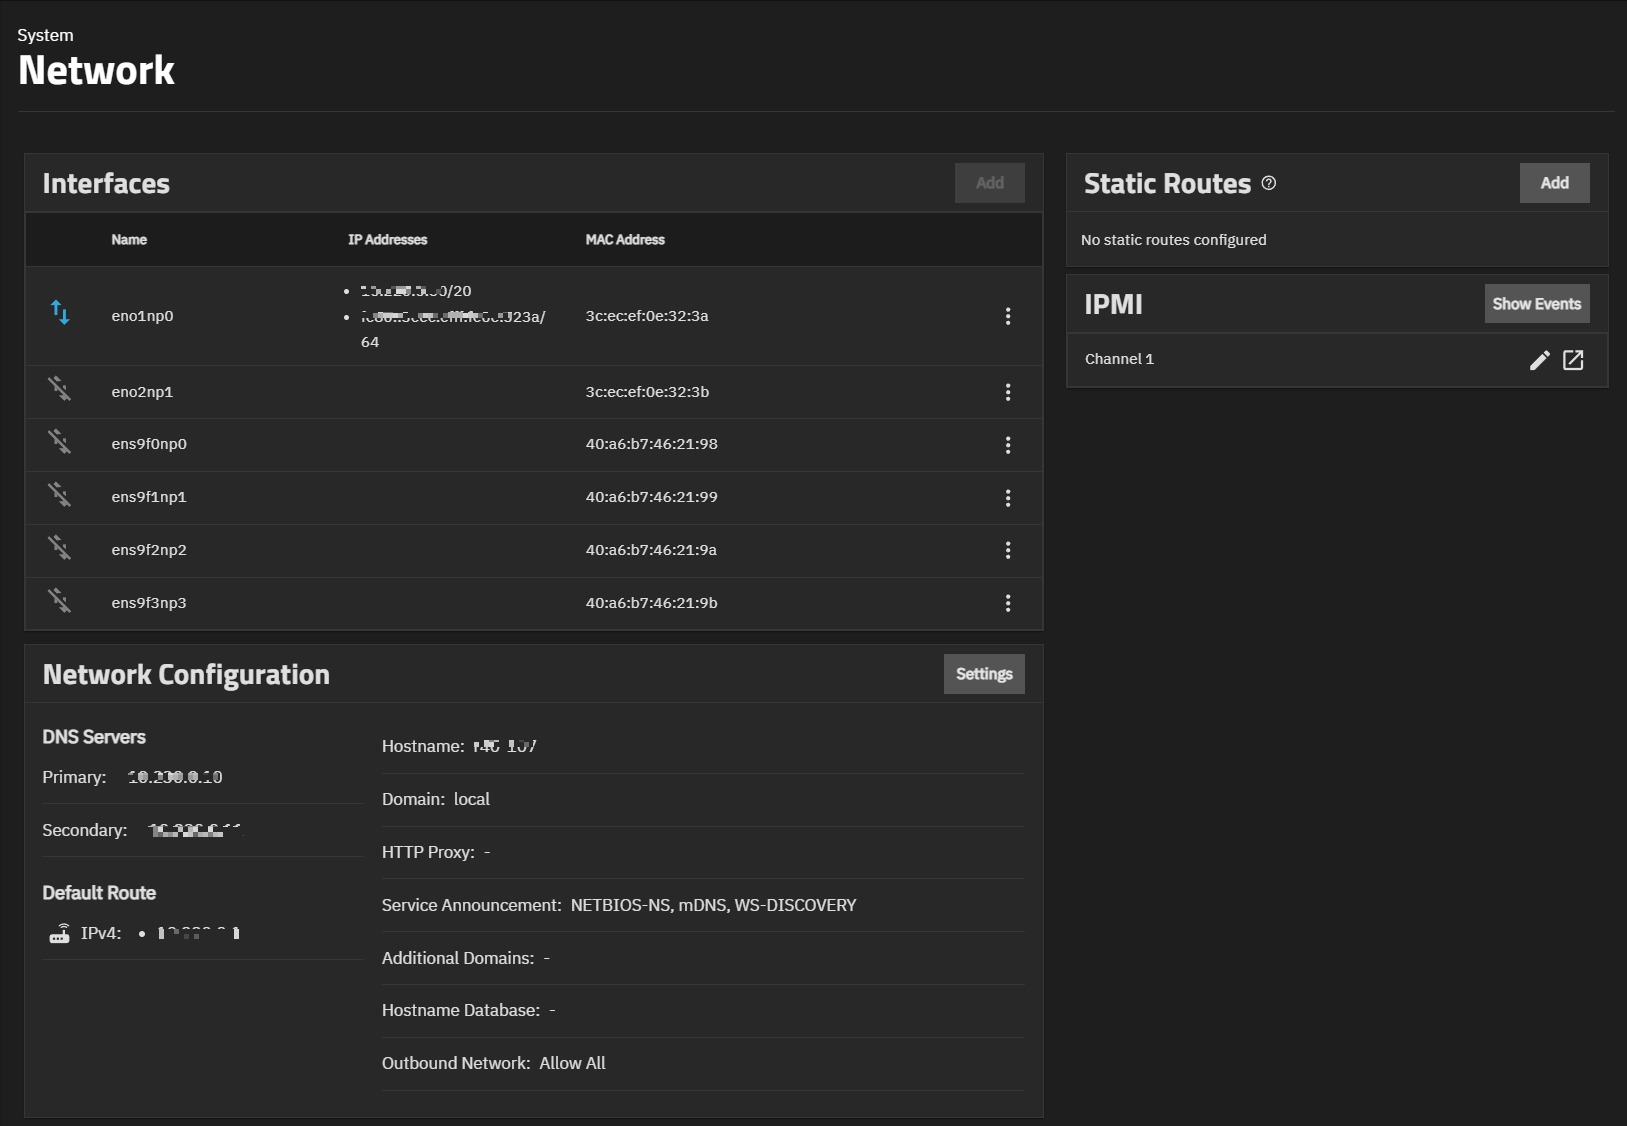
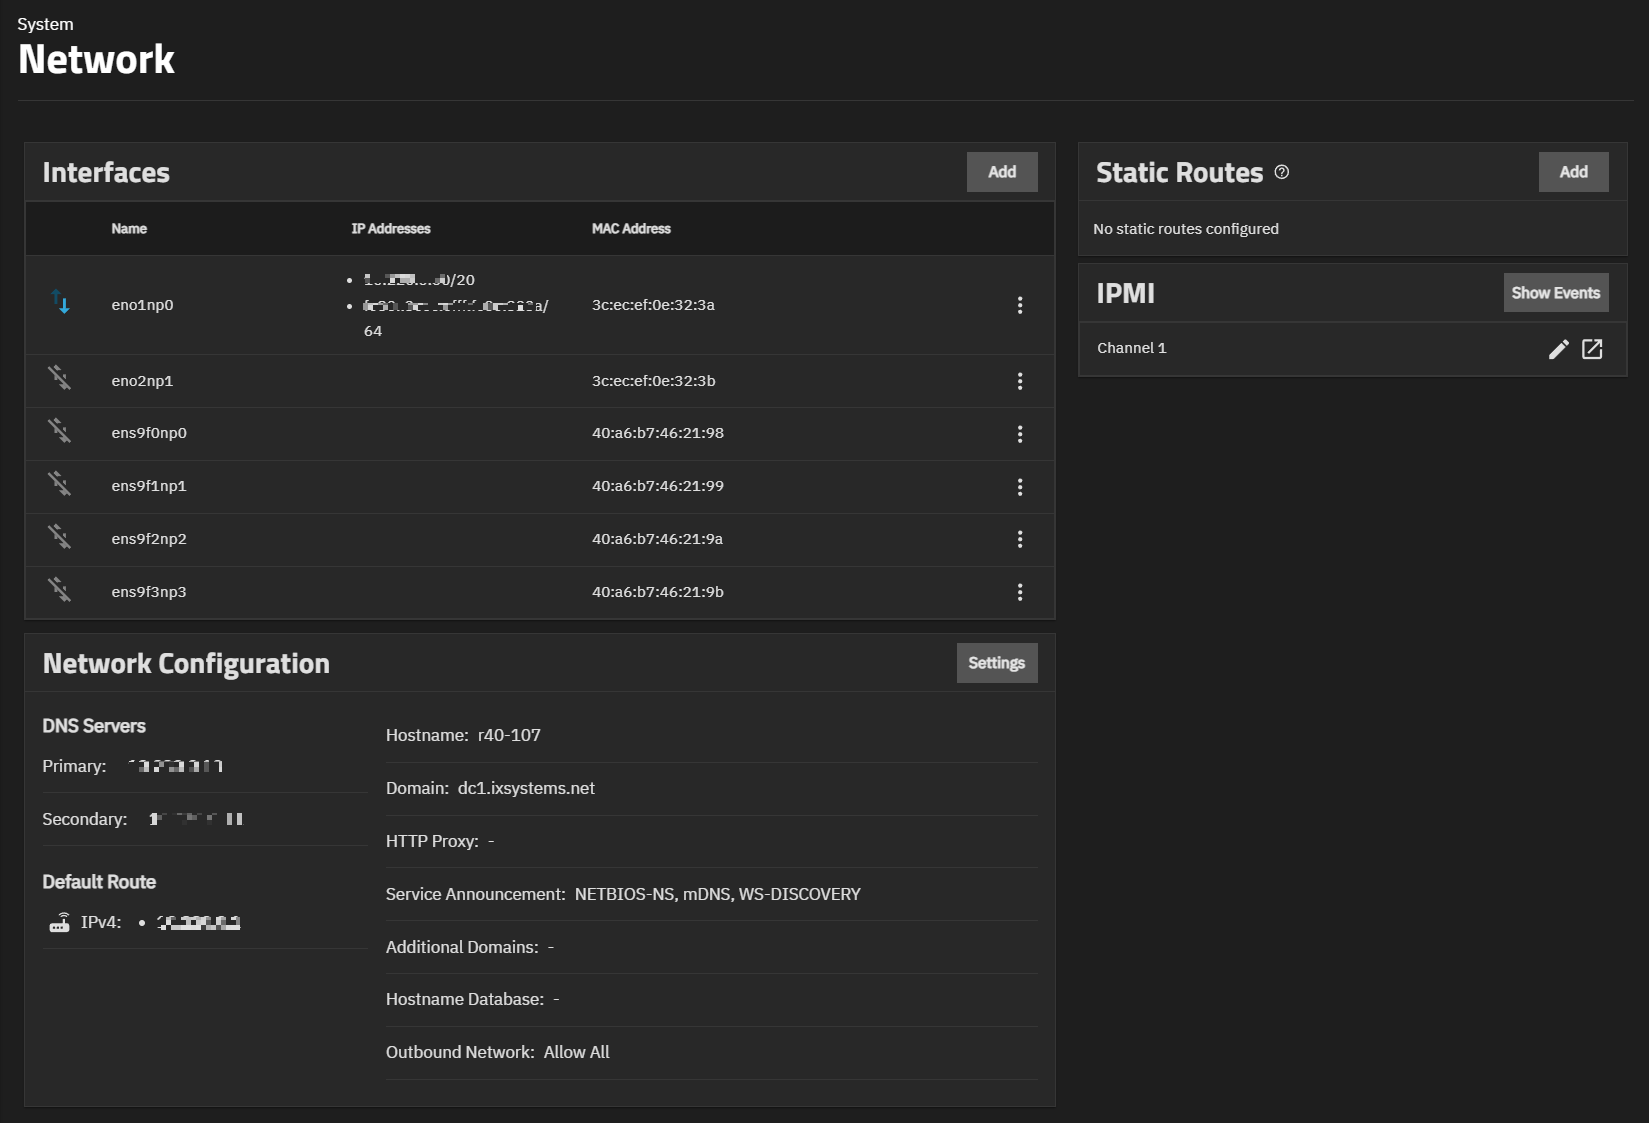
PD-2195 Updates to Global Network Config and Static Route Content
This PR updates the main Network. png image, changes the global network configuration widget to the renamed NetworkConfigurationWidget.png, updated the StaticRouteWidget.png, and updated the UI ref and tutorials to reflect UI name changes. Minor changes in the StaticRoutesScreens.md UI ref. Leaving the network _index.md where it is in the main navigation for visibility rather than moving it under System

diff --git a/content/SCALE/SCALETutorials/Network/ManagingGlobalConfig.md b/content/SCALE/SCALETutorials/Network/ManagingGlobalConfig.md
@@ -1,6 +1,6 @@
 ---
-title: "Managing Network Global Configurations"
-description: "Provides instructions on configuring or managing global configuration settings."
+title: "Managing Network Configurations"
+description: "Provides instructions on configuring or managing global network configuration settings."
 weight: 20
 aliases:
  - /scale/scaletutorials/network/addingglobalconf/
@@ -8,7 +8,7 @@ tags:
 - network
 ---
 
-Use the **Global Configuration Settings** screen to manage existing general network settings like the default gateway and DNS servers, set services allowed to externally communicate, enter an HTTP proxy, or host name database.
+Use the **Network Configuration Settings** widget shows existing general network settings like the default gateway and DNS servers, set services allowed to externally communicate, enter an HTTP proxy, or host name database.
 
 {{< include file="/static/includes/NetworkWarn.md" >}}
 
@@ -19,11 +19,11 @@ Be sure to check both locations when troubleshooting network connectivity issues
 
 ## Adding Network Settings
 
-Use the **Global Configuration Settings** screen to add general network settings like the default gateway and DNS name servers to allow external communication.
+Use the **Network Configuration** widget to add general network settings like the default gateway and DNS name servers to allow external communication.
 
 To add new or change existing network interfaces see [Interface Configurations]({{< ref "/SCALE/SCALETutorials/Network/Interfaces" >}}).
 
-Go to **System > Network**, and click **Settings** on the **Global Configuration** widget to open the **Edit Global Configuration** screen.
+Go to **System > Network**, and click **Settings** on the **Network Configuration** widget to open the **Edit Global Configuration** screen.
 
 1. Enter the host name for your TrueNAS in **Hostname**. For example, replace the default value *truenas* with something like *localnas*.
 
@@ -56,7 +56,7 @@ Go to **System > Network**, and click **Settings** on the **Global Configuration
    Select as many services as desired.
 <!--   See [below](#setting-up-external-communication-for-services) for more information. commenting out until the list below is updated with more details -->
 
-6. Click **Save**. The **Global Configuration** widget on the **Network** screen shows the new settings.
+6. Click **Save**. The **Network Configuration** widget on the **Network** screen shows the new settings.
 
 <!-- Commenting out this section until more information on what each service allows or requires, then use a snippet for this content in the UI ref and here.
 ## Setting Up External Communication for Services

diff --git a/content/SCALE/SCALEUIReference/Network/StaticRouteScreens.md b/content/SCALE/SCALEUIReference/Network/StaticRouteScreens.md
@@ -4,24 +4,26 @@ description: "The Static Routes widget displays existing static routes or sets u
 weight: 30
 tags:
 - network
-- staticroutes
+- static routes
 ---
 
-The **Static Routes** widget on the **Network** screen displays static IP addresses configured as static routes. Use this to manually enter routes to network destinations outside the TrueNAS network so the router can send packets to a destination network.
+The **Static Routes** widget on the **Network** screen shows static IP addresses configured as static routes.
+Allows manual entry of IP address routes to network destinations outside the TrueNAS network so the router can send packets to a destination network.
 
 {{< trueimage src="/images/SCALE/Network/StaticRoutes.png" alt="Static Routes" id="Static Routes" >}}
 
 TrueNAS does not have defined static routes by default.
-If you need a static route to reach portions of the network, add the route by going to **Network** and clicking **Add** in the **Static Routes** window.
+
+**Add** opens the **Add Static Route** screen where you can enter a static route to reach portions of the network.
 
 {{< trueimage src="/images/SCALE/Network/AddStaticRoute.png" alt="Add Static Route" id="Add Static Route" >}}
 
 {{< truetable >}}
 | Setting | Description |
 |---------|-------------|
-| **Destination** | Enter the destination IP address using the format *A.B.C.D/E* where *E* is the CIDR mask. This is a required field. |
-| **Gateway** | Enter the IP address of the gateway. This is a required field. |
-| **Description** | Enter notes or an identifier describing the route. |
+| **Destination** |The destination IP address entered in the format *A.B.C.D/E* where *E* is the CIDR or netmask. This is a required field. |
+| **Gateway** |The IP address of the gateway. This is a required field. |
+| **Description** | Text entry field for any notes or an identifier describing the route. |
 {{< /truetable >}}
 
-Use **Save** to add the static route.
+**Save** adds the static route in TrueNAS.

diff --git a/content/SCALE/SCALEUIReference/Network/GlobalConfigurationScreens.md b/content/SCALE/SCALEUIReference/Network/GlobalConfigurationScreens.md
@@ -1,14 +1,14 @@
 ---
-title: "Global Configuration Screens"
-description: "The Global Configuration widget displays the general TrueNAS network settings not specific to any interface."
+title: "Network Configuration Screens"
+description: "The Network Configuration widget shows the general TrueNAS network settings not specific to any interface."
 weight: 20
 tags:
 - network
 ---
 
-The **Global Configuration** widget shows the general networking settings for the TrueNAS system.
+The **Network Configuration** widget shows the general networking settings for the TrueNAS system.
 
-{{< trueimage src="/images/SCALE/Network/GlobalConfiguration.png" alt="Global Configuration Widget" id="Global Configuration Widget" >}}
+{{< trueimage src="/images/SCALE/Network/NetworkConfigurationWidget.png" alt="Newtork Configuration Widget" id="Network Configuration Widget" >}}
 
 **DNS Servers** shows the IP addresses for the primary and secondary name servers.
 

diff --git a/content/SCALE/SCALEUIReference/Network/_index.md b/content/SCALE/SCALEUIReference/Network/_index.md
@@ -9,7 +9,7 @@ tags:
 related: false
 ---
 
-The TrueNAS **Network** screen shows network configuration and settings options, in widgets for active interfaces, static routes, and the global configuration.
+The TrueNAS **Network** screen shows network configuration and settings options, in widgets for active interfaces, static routes, and the network configuration.
 The **Network** screen also provides access to IPMI channels. IPMI only shows on systems with physical hardware but not for virtual machine deployments.
 To access the **Network** screen, go to **System** on the main navigation menu, then click **Network**.
 

diff --git a/content/SCALE/SCALETutorials/Network/_index.md b/content/SCALE/SCALETutorials/Network/_index.md
@@ -9,7 +9,7 @@ aliases:
 related: false
 ---
 
-The **Network** menu option has several screens that enable configuring network interfaces and general system-level network settings.
+The **System > Network** menu option has several screens that enable configuring network interfaces and general system-level network settings.
 The tutorials in this section guide with the various screens and configuration forms contained within this menu item.
 
 {{< enterprise >}}
